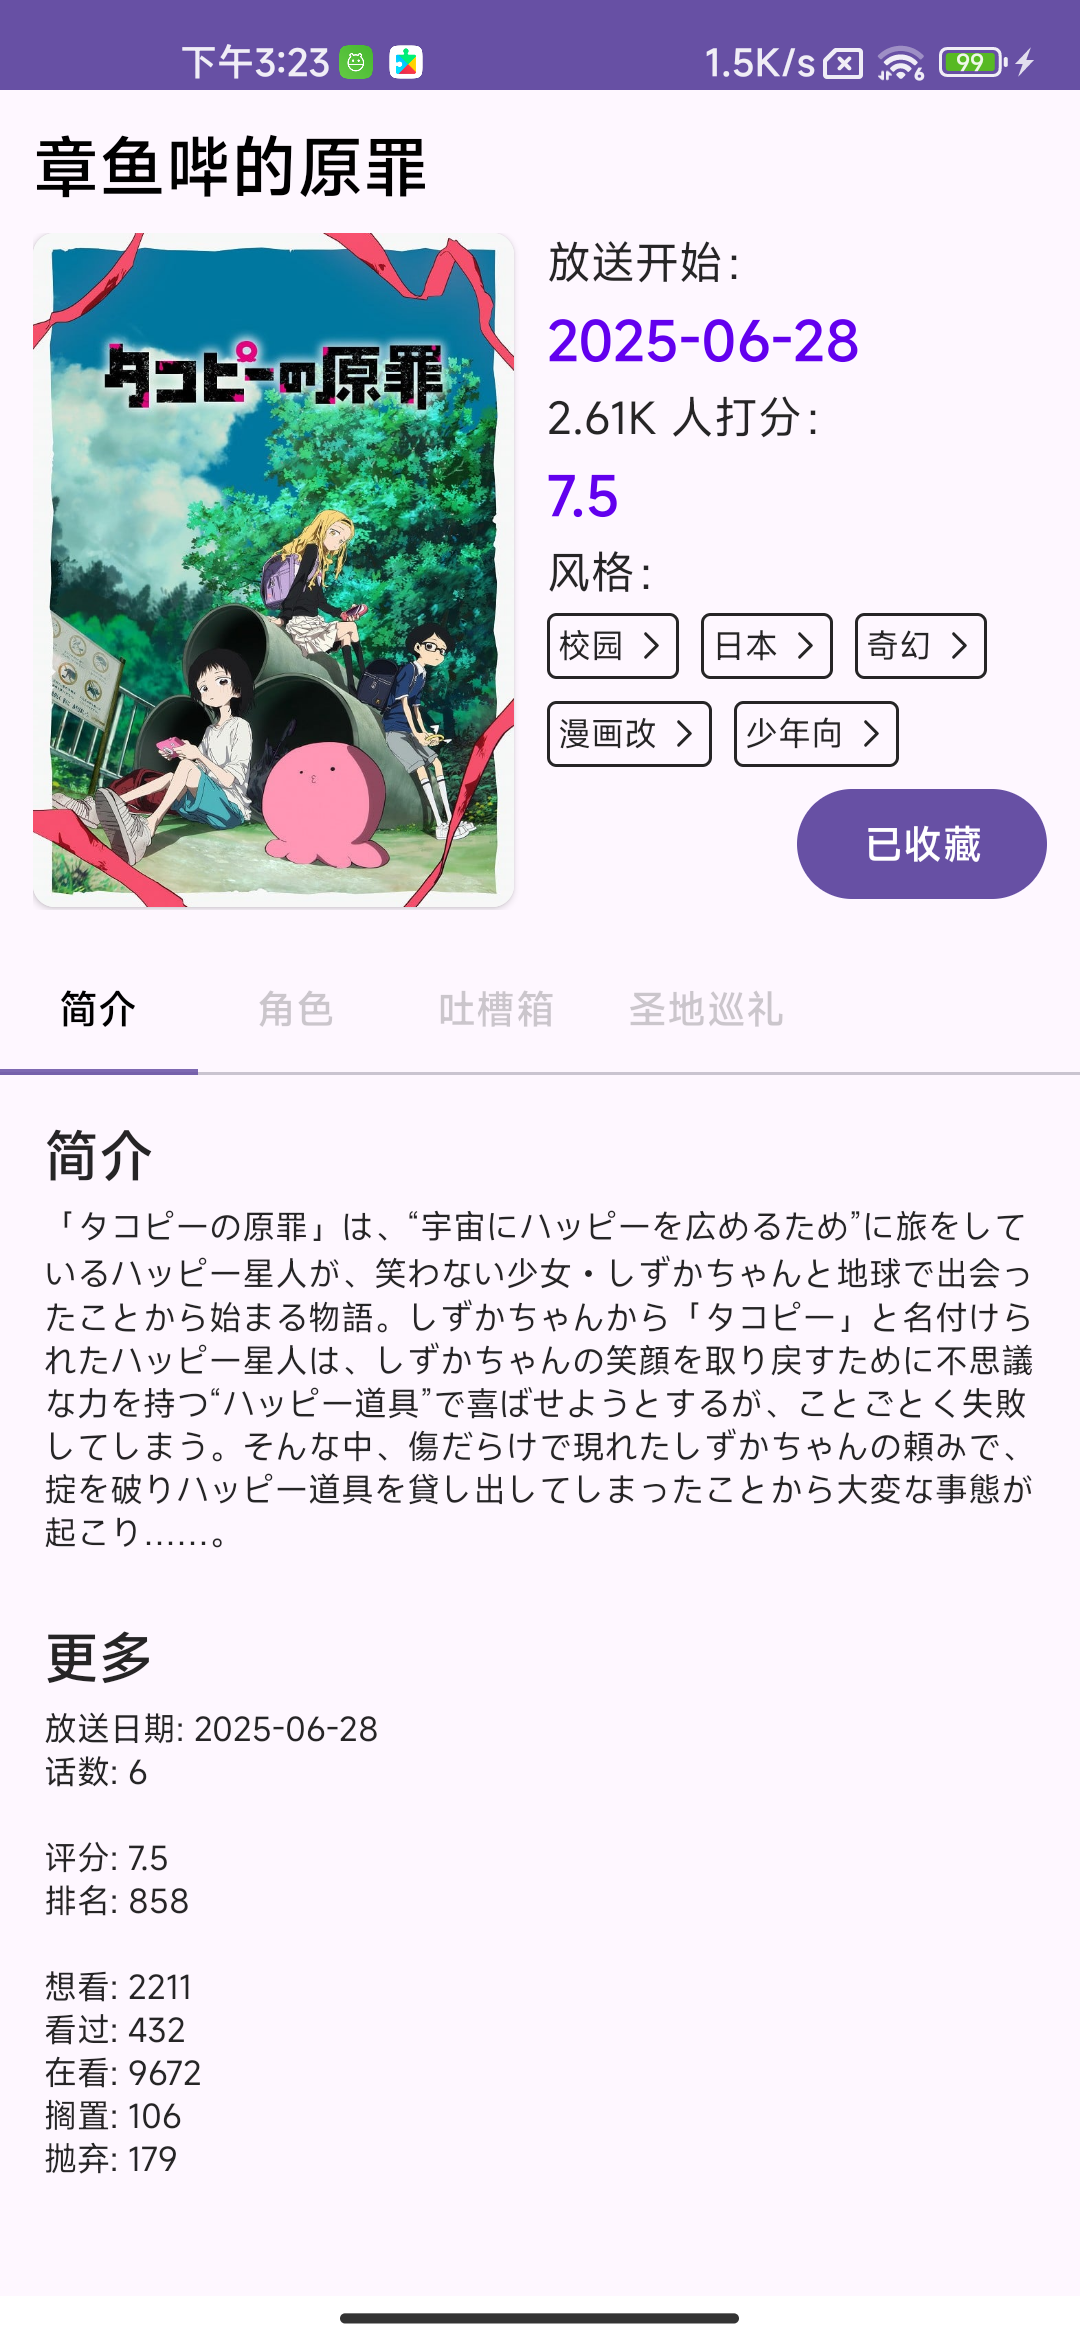
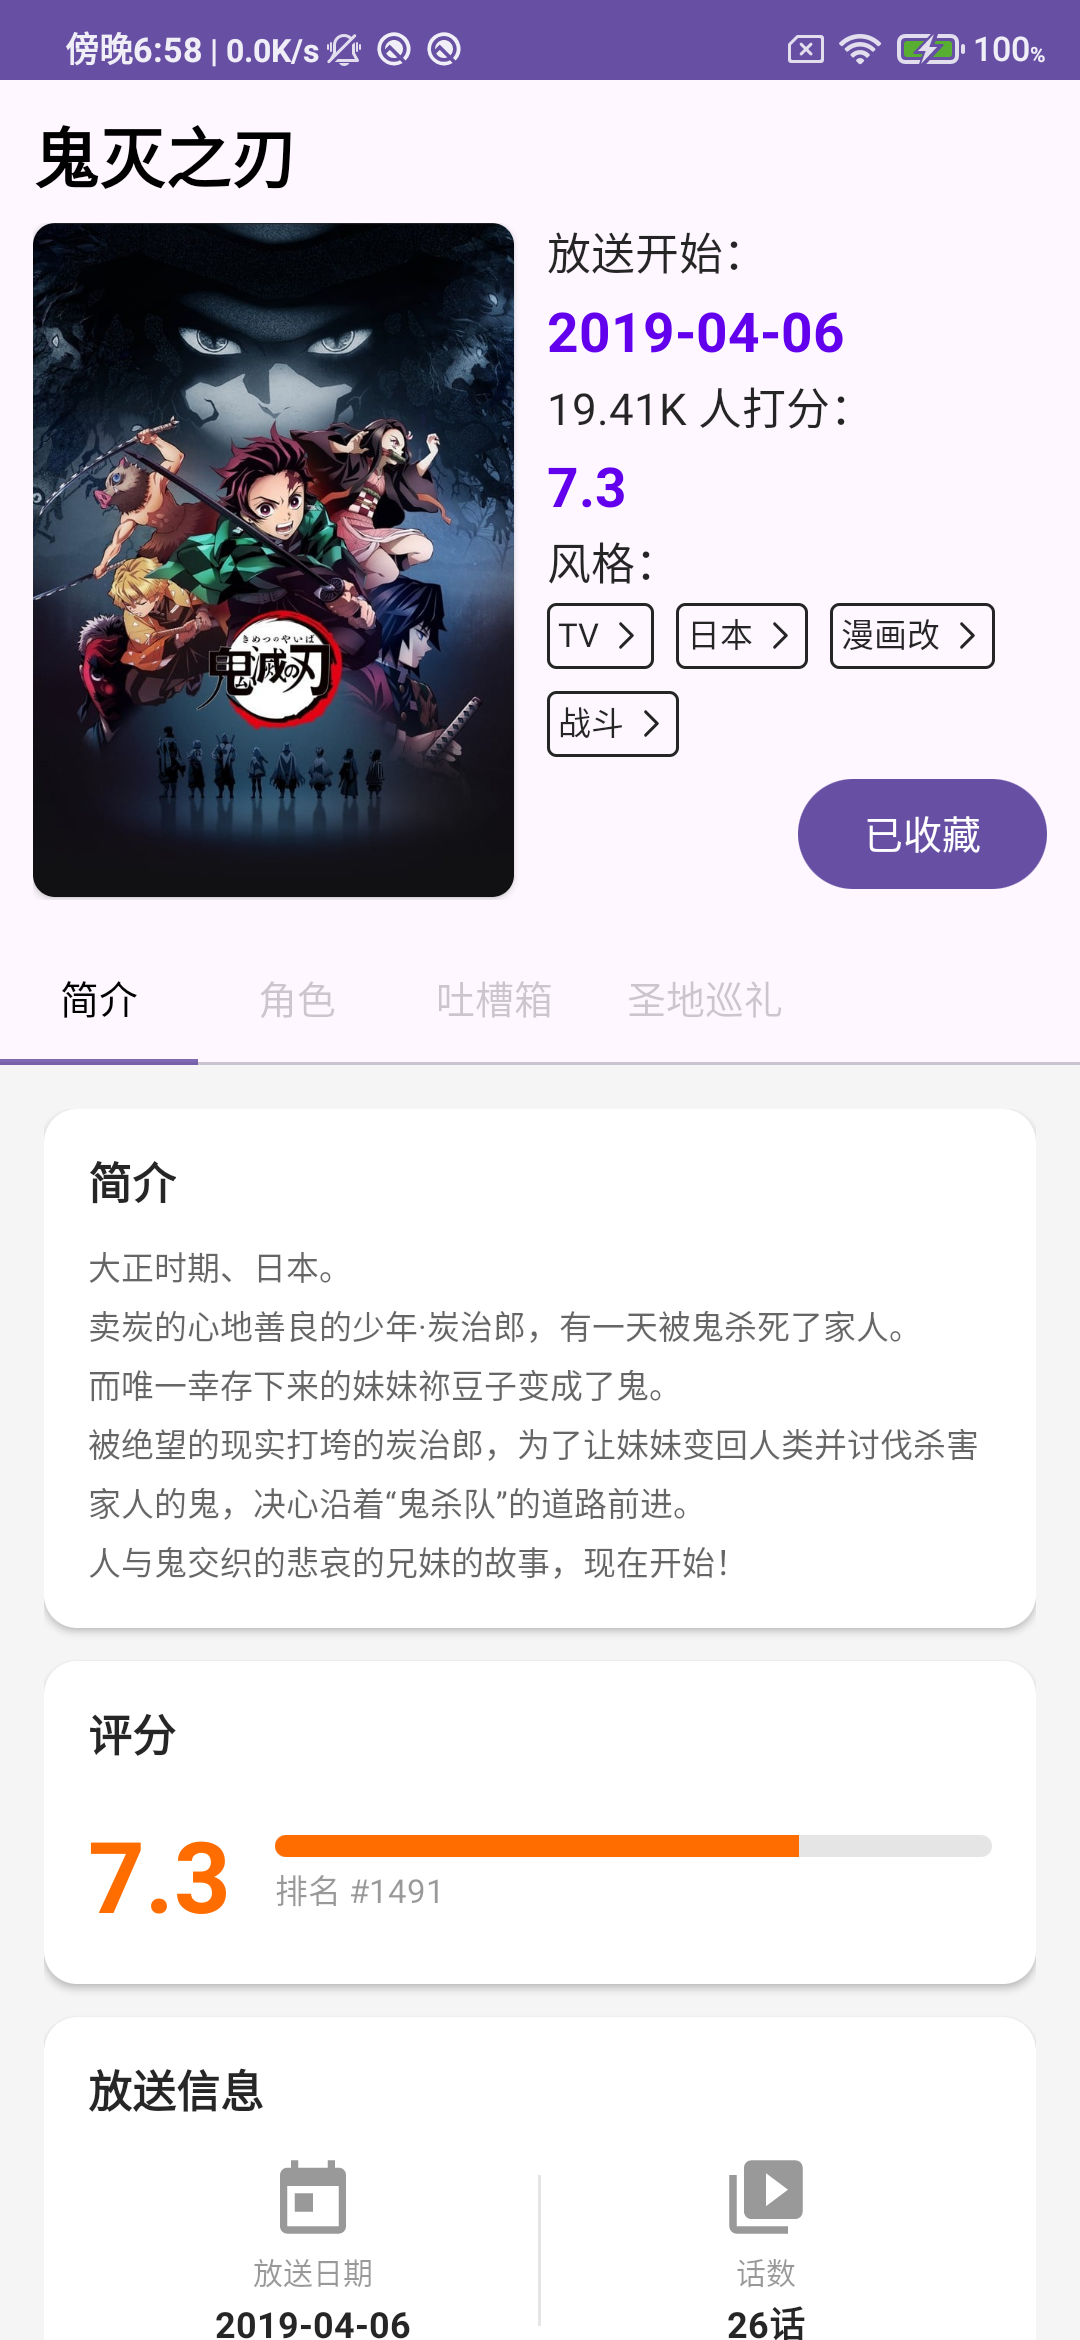
[1.2.0][UPDATE] 版本更新

diff --git a/README.md b/README.md
@@ -1,19 +1,21 @@
-# 🌸 Bangumi 圣地巡礼
+# 🌸 OtakuMap 圣地巡礼
 
-> 一款专为动漫爱好者设计的圣地巡礼Android应用，让你的动漫之旅更加精彩！
+> 一款专为动漫爱好者设计的圣地巡礼Android应用，让你的日本之旅更加精彩！
 
 [![Android](https://img.shields.io/badge/Platform-Android-green.svg)](https://developer.android.com)
 [![Kotlin](https://img.shields.io/badge/Language-Kotlin-blue.svg)](https://kotlinlang.org)
 [![API](https://img.shields.io/badge/API-24%2B-brightgreen.svg)](https://android-arsenal.com/api?level=24)
+[![Version](https://img.shields.io/badge/Version-1.2.0-blue.svg)](https://github.com/GhaSiKey/Bangumi/releases)
 
 ## 📱 应用简介
 
-Bangumi 圣地巡礼是一款结合了动漫信息浏览和圣地巡礼地点查看的综合性Android应用。通过整合Bangumi和Anitabi的丰富数据，为用户提供完整的动漫观看和圣地探访体验。
+OtakuMap 圣地巡礼是一款结合了动漫信息浏览和圣地巡礼地点查看的综合性Android应用。通过整合Bangumi和Anitabi的丰富数据，为用户提供完整的动漫观看和圣地探访体验。
 
 ### ✨ 核心特性
 - 📚 **我的收藏** - 3列网格布局，管理你的动漫收藏
 - 🏆 **排行榜** - 实时动漫排行，支持下拉刷新和上拉加载
 - 📅 **每日更新** - 一周新番时间表，不错过任何精彩内容
+- 🔍 **智能搜索** - 快速查找你想要的番剧
 - ⚙ **个人设置** - 简洁的设置界面，包含开发者选项
 
 ### 🎯 主要功能
@@ -35,10 +37,10 @@ Bangumi 圣地巡礼是一款结合了动漫信息浏览和圣地巡礼地点查
 
 感谢以下优秀的开源项目和API服务：
 
-> 📊 **ANIME数据来源**: [Bangumi](https://github.com/bangumi/dev-docs)  
+> 📊 **ANIME数据来源**: [Bangumi](https://github.com/bangumi/dev-docs)
 > 提供番剧信息、排行榜、用户评论等丰富数据
 
-> 🗺 **圣地巡礼数据**: [Anitabi](https://github.com/anitabi/anitabi.cn-document)  
+> 🗺 **圣地巡礼数据**: [Anitabi](https://github.com/anitabi/anitabi.cn-document)
 > 提供圣地巡礼地点、坐标、图片等地理信息
 
 ## 📸 应用截图
@@ -46,24 +48,29 @@ Bangumi 圣地巡礼是一款结合了动漫信息浏览和圣地巡礼地点查
 ### 🗺 圣地巡礼功能
 
 #### 番剧圣地巡礼列表，按集数分组展示，方便用户按集数查看
-<img src="assets/point_img_3.webp" alt="圣地巡礼列表" width="45%">
-<img src="assets/point_img_4.webp" alt="圣地巡礼列表" width="45%">
+<img src="assets/point_img_3.webp" alt="圣地巡礼列表" width="45%"> <img src="assets/point_img_4.webp" alt="圣地巡礼列表" width="45%">
 
 #### 📍 半屏弹窗查看模式
 轻触地点标记，底部弹出详情卡片，支持拖拽调整高度
 
-<img src="assets/point_img_1.webp" alt="半屏弹窗模式" width="45%">
+<img src="assets/point_img_1.webp" alt="半屏弹窗模式" width="45%"> <img src="assets/point_img_5.webp" alt="半屏弹窗模式" width="45%">
 
 #### 🌍 全屏地图浏览模式
 全屏展示所有巡礼地点，底部卡片支持左右滑动切换
 
 <img src="assets/point_img_2.webp" alt="全屏地图模式" width="45%">
 
-#### 📚 我的收藏页面
-<img src="assets/collection_img_1.webp" alt="我的收藏" width="45%">
+### 🎄 圣地收藏页面
+<img src="assets/point_collection_img.webp" alt="我的收藏" width="45%">
 
-#### 🏆 排行榜页面
+### 📚 我的收藏页面
+<img src="assets/collection_img.webp" alt="我的收藏" width="45%">
+
+### 🏆 排行榜页面
 <img src="assets/trending_img.webp" alt="排行榜" width="45%">
+
+### 🔍 搜索功能
+<img src="assets/search_img.webp" alt="搜索页面" width="45%">
 
 ### 📅 时间表页面
 一周新番时间表，按星期分组展示
@@ -81,6 +88,27 @@ Bangumi 圣地巡礼是一款结合了动漫信息浏览和圣地巡礼地点查
 #### 吐槽箱页面
 <img src="assets/detail_img_3.webp" alt="用户评论" width="45%">
 
+## 🔄 更新日志
+
+### v1.2.0 (当前版本)
+- ✨ 优化番剧详情页简介布局，采用卡片式设计
+- ✨ 评分可视化展示（进度条 + 大字号评分）
+- ✨ 收藏统计网格化展示
+- ✨ 放送信息图标化展示
+- 🔍 新增搜索功能入口
+- 🐛 修复收藏功能相关问题
+
+### v1.1.0
+- ✨ 新增启动动画
+- 🔍 新增番剧搜索功能
+- 🐛 Bug修复与性能优化
+
+### v1.0.0
+- 🎉 首次发布
+- 📺 番剧信息浏览
+- 🗺 圣地巡礼地图功能
+- 📚 收藏管理功能
+
 ## 🤝 贡献指南
 
 欢迎任何形式的贡献！
@@ -93,7 +121,8 @@ Bangumi 圣地巡礼是一款结合了动漫信息浏览和圣地巡礼地点查
 
 ### 开发计划
 - [ ] **搜索功能增强**: 支持更多搜索条件
-- [ ] **离线缓存**: 支持离线查看收藏内容  
+- [ ] **离线缓存**: 支持离线查看收藏内容
+- [ ] **深色模式**: 支持系统深色模式
 
 ## 📄 开源协议
 
